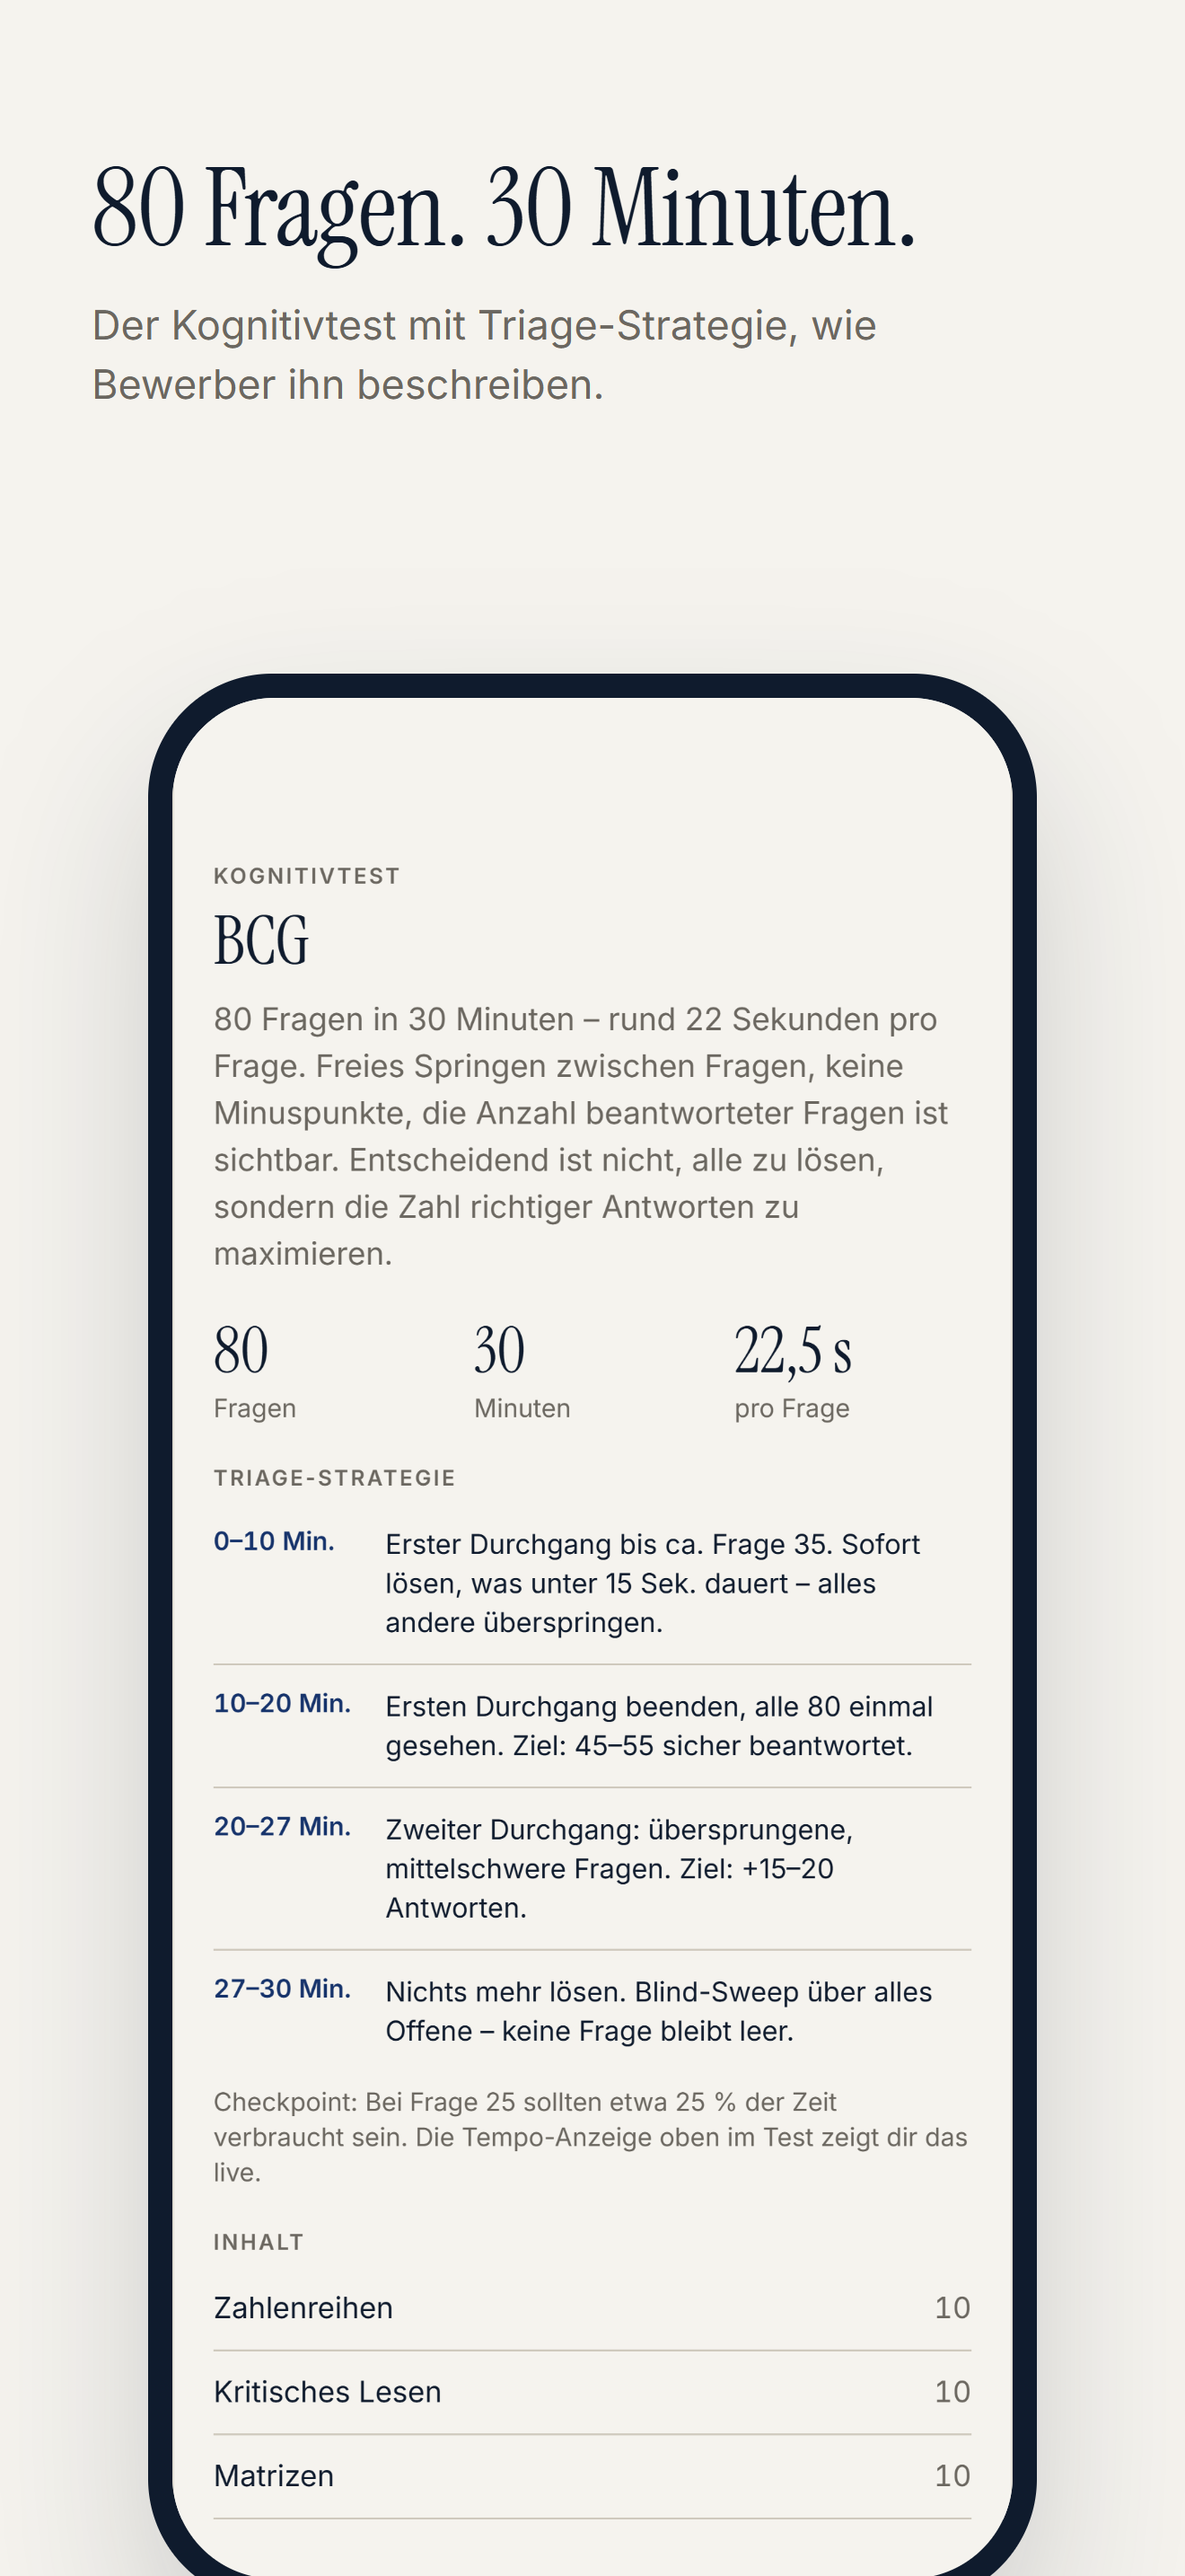
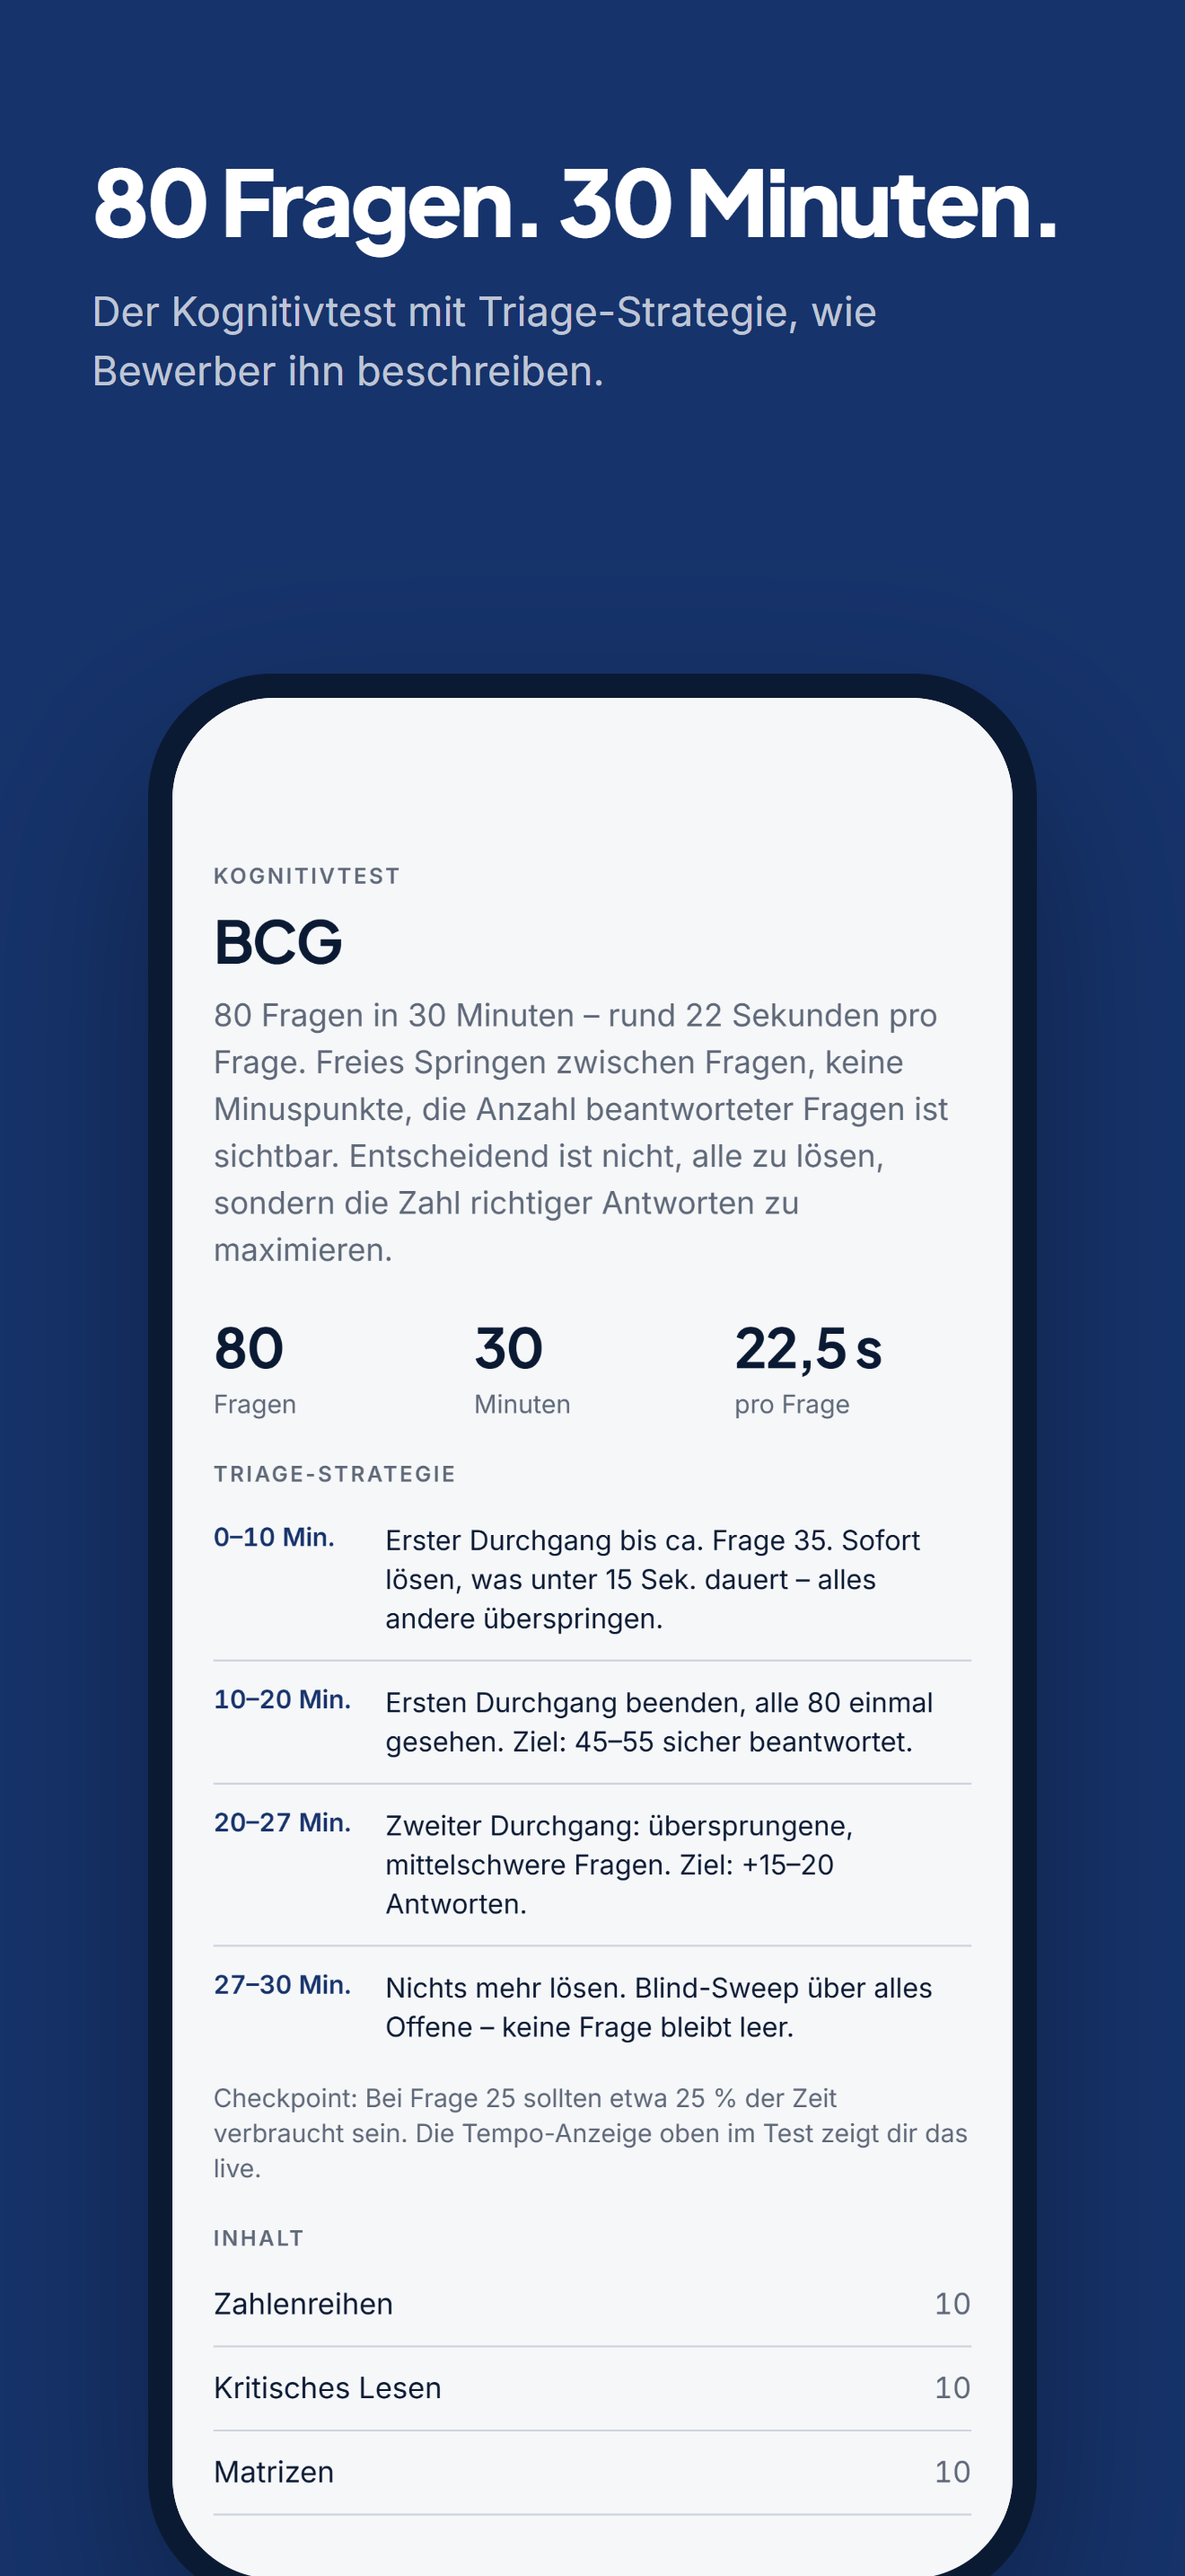
Neues Design

diff --git a/style.css b/style.css
@@ -1,5 +1,5 @@
 :root {
-  --bg: #F5F3EE; --surface: #FFFFFF; --ink: #0F1B2D; --muted: #6B6760; --line: #E2DED5; --accent: #16336B;
+  --bg: #F6F7F9; --surface: #FFFFFF; --ink: #0B1A33; --muted: #5E6878; --line: #E4E8EE; --accent: #16336B;
 }
 @media (prefers-color-scheme: dark) {
   :root:not([data-theme="light"]) { --bg: #0F1520; --surface: #161E2C; --ink: #EEF1F6; --muted: #9BA3B0; --line: #263043; --accent: #8FB0F0; }
@@ -9,16 +9,16 @@ body { background: var(--bg); color: var(--ink); font: 16px/1.6 Inter, system-ui
 a { color: var(--accent); }
 .wrap { max-width: 1040px; margin: 0 auto; padding: 0 20px; }
 header.nav { display: flex; justify-content: space-between; align-items: center; padding: 22px 0; }
-.brand { font-family: 'Instrument Serif', serif; font-size: 26px; color: var(--ink); text-decoration: none; }
+.brand { font-family: 'Plus Jakarta Sans', sans-serif; font-weight: 800; letter-spacing: -.03em; font-size: 22px; color: var(--ink); text-decoration: none; }
 .nav a.small { font-size: 14px; color: var(--muted); text-decoration: none; margin-left: 18px; }
 .label { font-size: 11px; letter-spacing: .12em; text-transform: uppercase; color: var(--muted); font-weight: 600; }
-h1, h2 { font-family: 'Instrument Serif', serif; font-weight: 400; letter-spacing: -.01em; }
-h1 { font-size: clamp(44px, 7vw, 76px); line-height: 1.02; margin: 14px 0 18px; }
+h1, h2 { font-family: 'Plus Jakarta Sans', sans-serif; font-weight: 800; letter-spacing: -.035em; }
+h1 { font-size: clamp(38px, 6vw, 62px); line-height: 1.05; margin: 14px 0 18px; }
 h2 { font-size: clamp(30px, 4vw, 42px); line-height: 1.08; margin-bottom: 12px; }
 .lead { font-size: 19px; color: var(--muted); max-width: 560px; }
 .hero { display: grid; grid-template-columns: 1.1fr .9fr; gap: 40px; align-items: center; padding: 40px 0 70px; }
 .hero img { width: 100%; max-width: 380px; justify-self: center; border-radius: 28px; }
-.cta { display: inline-block; margin-top: 28px; background: var(--ink); color: var(--bg); padding: 14px 22px; border-radius: 10px; text-decoration: none; font-weight: 600; }
+.cta { display: inline-block; margin-top: 28px; background: var(--accent); color: var(--bg); padding: 14px 22px; border-radius: 10px; text-decoration: none; font-weight: 600; }
 .note { font-size: 13px; color: var(--muted); margin-top: 12px; }
 section { padding: 60px 0; border-top: 1px solid var(--line); }
 .grid { display: grid; grid-template-columns: repeat(3, 1fr); gap: 28px; margin-top: 28px; }

diff --git a/index.html b/index.html
@@ -6,7 +6,7 @@
 <title>ConsultReady – Online-Test für Unternehmensberatungen üben</title>
 <meta name="description" content="Trainiere die Online-Assessments der Unternehmensberatungen: Kognitivtest mit 80 Fragen, Zahlenreihen, Würfelnetze, Syllogismen, Analogien und spielbasiertes Problemlösen – mit Lösungsweg zu jeder Aufgabe.">
 <link rel="preconnect" href="https://fonts.googleapis.com">
-<link href="https://fonts.googleapis.com/css2?family=Instrument+Serif&family=Inter:wght@400;600&display=swap" rel="stylesheet">
+<link href="https://fonts.googleapis.com/css2?family=Plus+Jakarta+Sans:wght@700;800&family=Inter:wght@400;600&display=swap" rel="stylesheet">
 <link rel="stylesheet" href="style.css">
 <link rel="icon" href="img/icon.png">
 </head>

diff --git a/impressum.html b/impressum.html
@@ -5,7 +5,7 @@
 <meta name="viewport" content="width=device-width, initial-scale=1">
 <title>Impressum – ConsultReady</title>
 <meta name="robots" content="noindex">
-<link href="https://fonts.googleapis.com/css2?family=Instrument+Serif&family=Inter:wght@400;600&display=swap" rel="stylesheet">
+<link href="https://fonts.googleapis.com/css2?family=Plus+Jakarta+Sans:wght@700;800&family=Inter:wght@400;600&display=swap" rel="stylesheet">
 <link rel="stylesheet" href="style.css">
 </head>
 <body>

diff --git a/datenschutz.html b/datenschutz.html
@@ -4,7 +4,7 @@
 <meta charset="utf-8">
 <meta name="viewport" content="width=device-width, initial-scale=1">
 <title>Datenschutz – ConsultReady</title>
-<link href="https://fonts.googleapis.com/css2?family=Instrument+Serif&family=Inter:wght@400;600&display=swap" rel="stylesheet">
+<link href="https://fonts.googleapis.com/css2?family=Plus+Jakarta+Sans:wght@700;800&family=Inter:wght@400;600&display=swap" rel="stylesheet">
 <link rel="stylesheet" href="style.css">
 </head>
 <body>

diff --git a/support.html b/support.html
@@ -4,7 +4,7 @@
 <meta charset="utf-8">
 <meta name="viewport" content="width=device-width, initial-scale=1">
 <title>Support – ConsultReady</title>
-<link href="https://fonts.googleapis.com/css2?family=Instrument+Serif&family=Inter:wght@400;600&display=swap" rel="stylesheet">
+<link href="https://fonts.googleapis.com/css2?family=Plus+Jakarta+Sans:wght@700;800&family=Inter:wght@400;600&display=swap" rel="stylesheet">
 <link rel="stylesheet" href="style.css">
 </head>
 <body>
